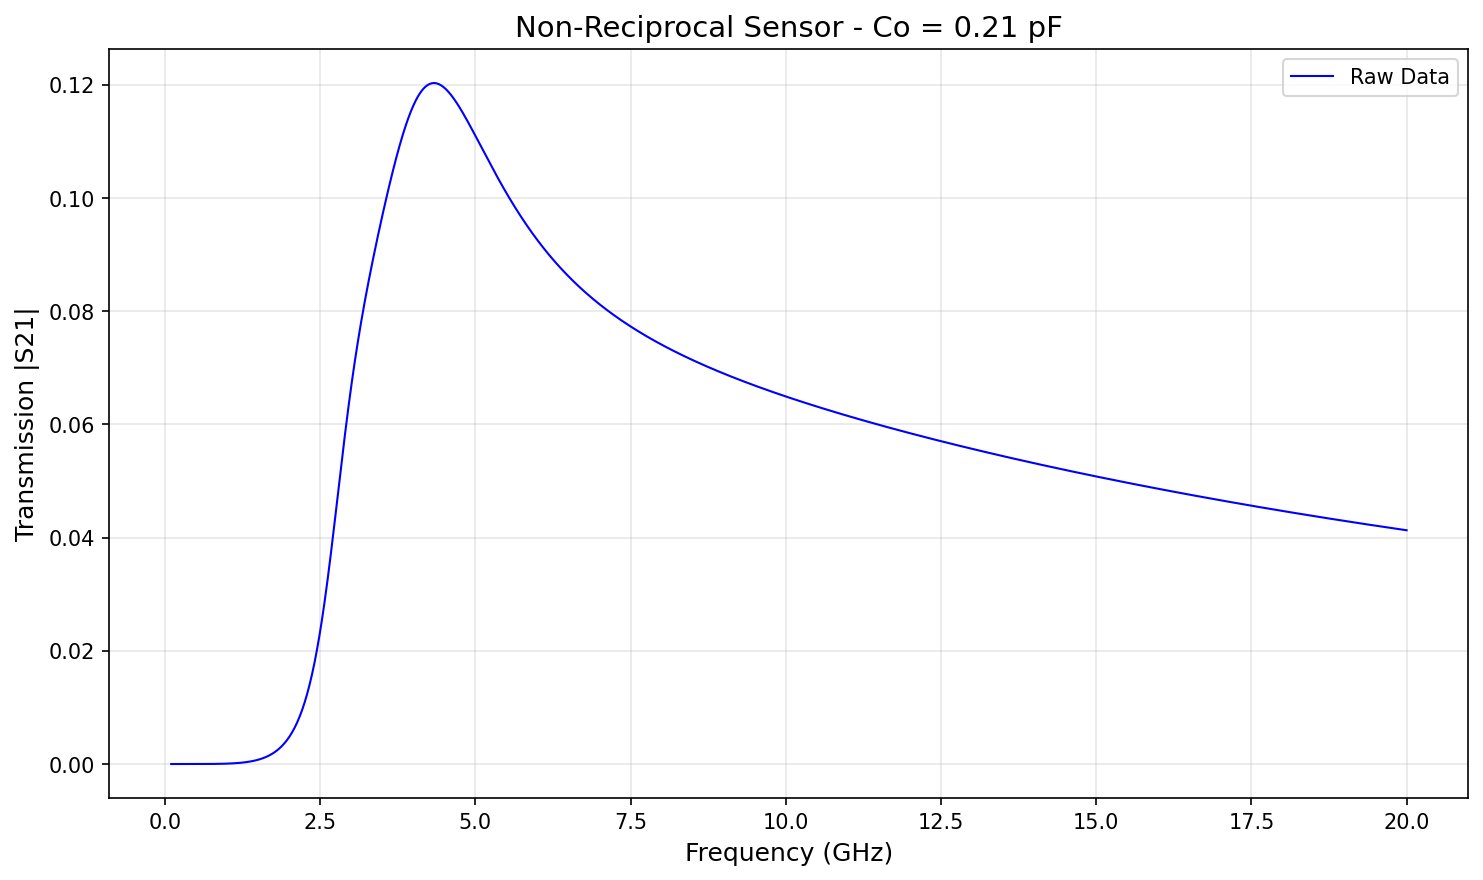
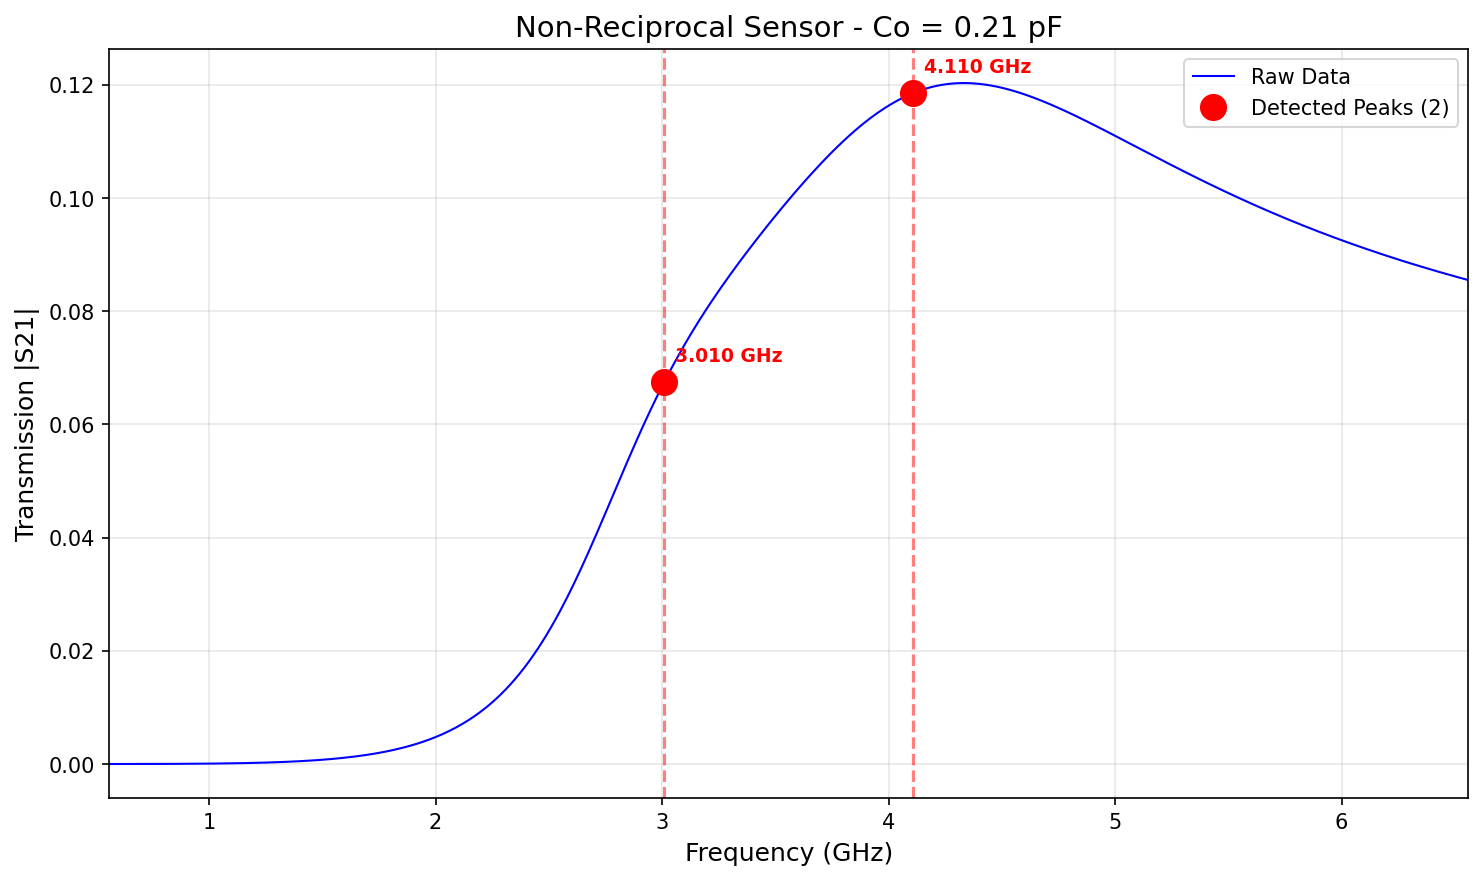
Add second derivative peak detection for merged/shoulder peaks
New find_two_peaks_second_derivative() function:
- Uses Gaussian smoothing + second derivative analysis
- Detects shoulders and inflection points where peaks merge
- Falls back to this method when standard peak detection fails

Results for Non-Reciprocal sensor:
- Now detects 2 peaks from Co=0.1 pF (was 0.94 pF)
- Only 10 of 101 Co values fail (was 94 failures)
- Successfully tracks both modes as they merge together

https://claude.ai/code/session_01SgRVjLYurBKPwG16aD4KZu

diff --git a/src/process_sensor_data.py b/src/process_sensor_data.py
@@ -10,6 +10,7 @@ import pandas as pd
 import numpy as np
 import matplotlib.pyplot as plt
 from scipy.signal import find_peaks
+from scipy.ndimage import gaussian_filter1d
 import re
 from pathlib import Path
 
@@ -31,6 +32,32 @@ def load_sensor_data(filepath):
     return freq, co_data
 
 
+def find_two_peaks_second_derivative(freq, transmission):
+    """Find peaks using second derivative (detects shoulders/merged peaks)."""
+
+    # Smooth the data
+    trans_smooth = gaussian_filter1d(transmission, sigma=3)
+
+    # Calculate second derivative
+    d1 = np.gradient(trans_smooth, freq)
+    d2 = np.gradient(d1, freq)
+
+    # Peaks in negative second derivative indicate peaks AND shoulders
+    d2_neg = -d2
+    d2_peaks, _ = find_peaks(d2_neg, prominence=0.0005, distance=30)
+
+    # Filter to reasonable frequency range (1-8 GHz for these sensors)
+    d2_peaks = d2_peaks[(freq[d2_peaks] > 1) & (freq[d2_peaks] < 8)]
+
+    if len(d2_peaks) >= 2:
+        # Take the two most prominent features
+        heights = d2_neg[d2_peaks]
+        top2_idx = d2_peaks[heights.argsort()[-2:]]
+        return sorted(top2_idx)
+
+    return None
+
+
 def find_two_peaks(freq, transmission):
     """Find the two main peaks in transmission spectrum."""
 
@@ -46,7 +73,12 @@ def find_two_peaks(freq, transmission):
             top2_idx = peaks[heights.argsort()[-2:]]
             return sorted(top2_idx)
 
-    # If only 1 peak found, return None
+    # Fallback: use second derivative to find shoulders/merged peaks
+    result = find_two_peaks_second_derivative(freq, transmission)
+    if result is not None:
+        return result
+
+    # If still only 1 peak found, return None
     return None
 
 
